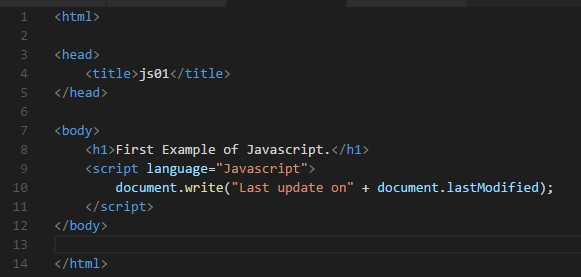
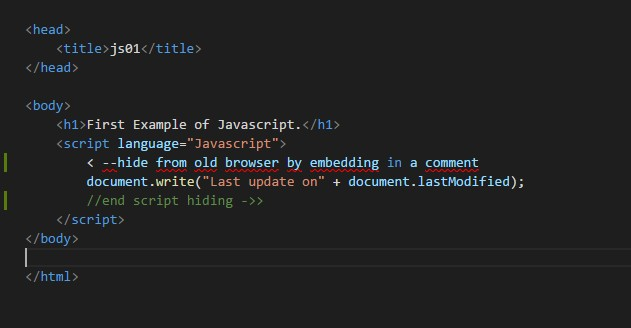
update js01

diff --git a/lab04/js01.html b/lab04/js01.html
@@ -7,7 +7,9 @@
 <body>
     <h1>First Example of Javascript.</h1>
     <script language="Javascript">
+        < --hide from old browser by embedding in a comment
         document.write("Last update on" + document.lastModified);
+        //end script hiding ->>
     </script>
 </body>
 

diff --git a/lab04/lab04.html b/lab04/lab04.html
@@ -47,7 +47,7 @@
         
         .title {
             font-size: 50px;
-            font-weight: 10px;
+            font-weight: bold;
             font-family: myFirstFont;
         }
         
